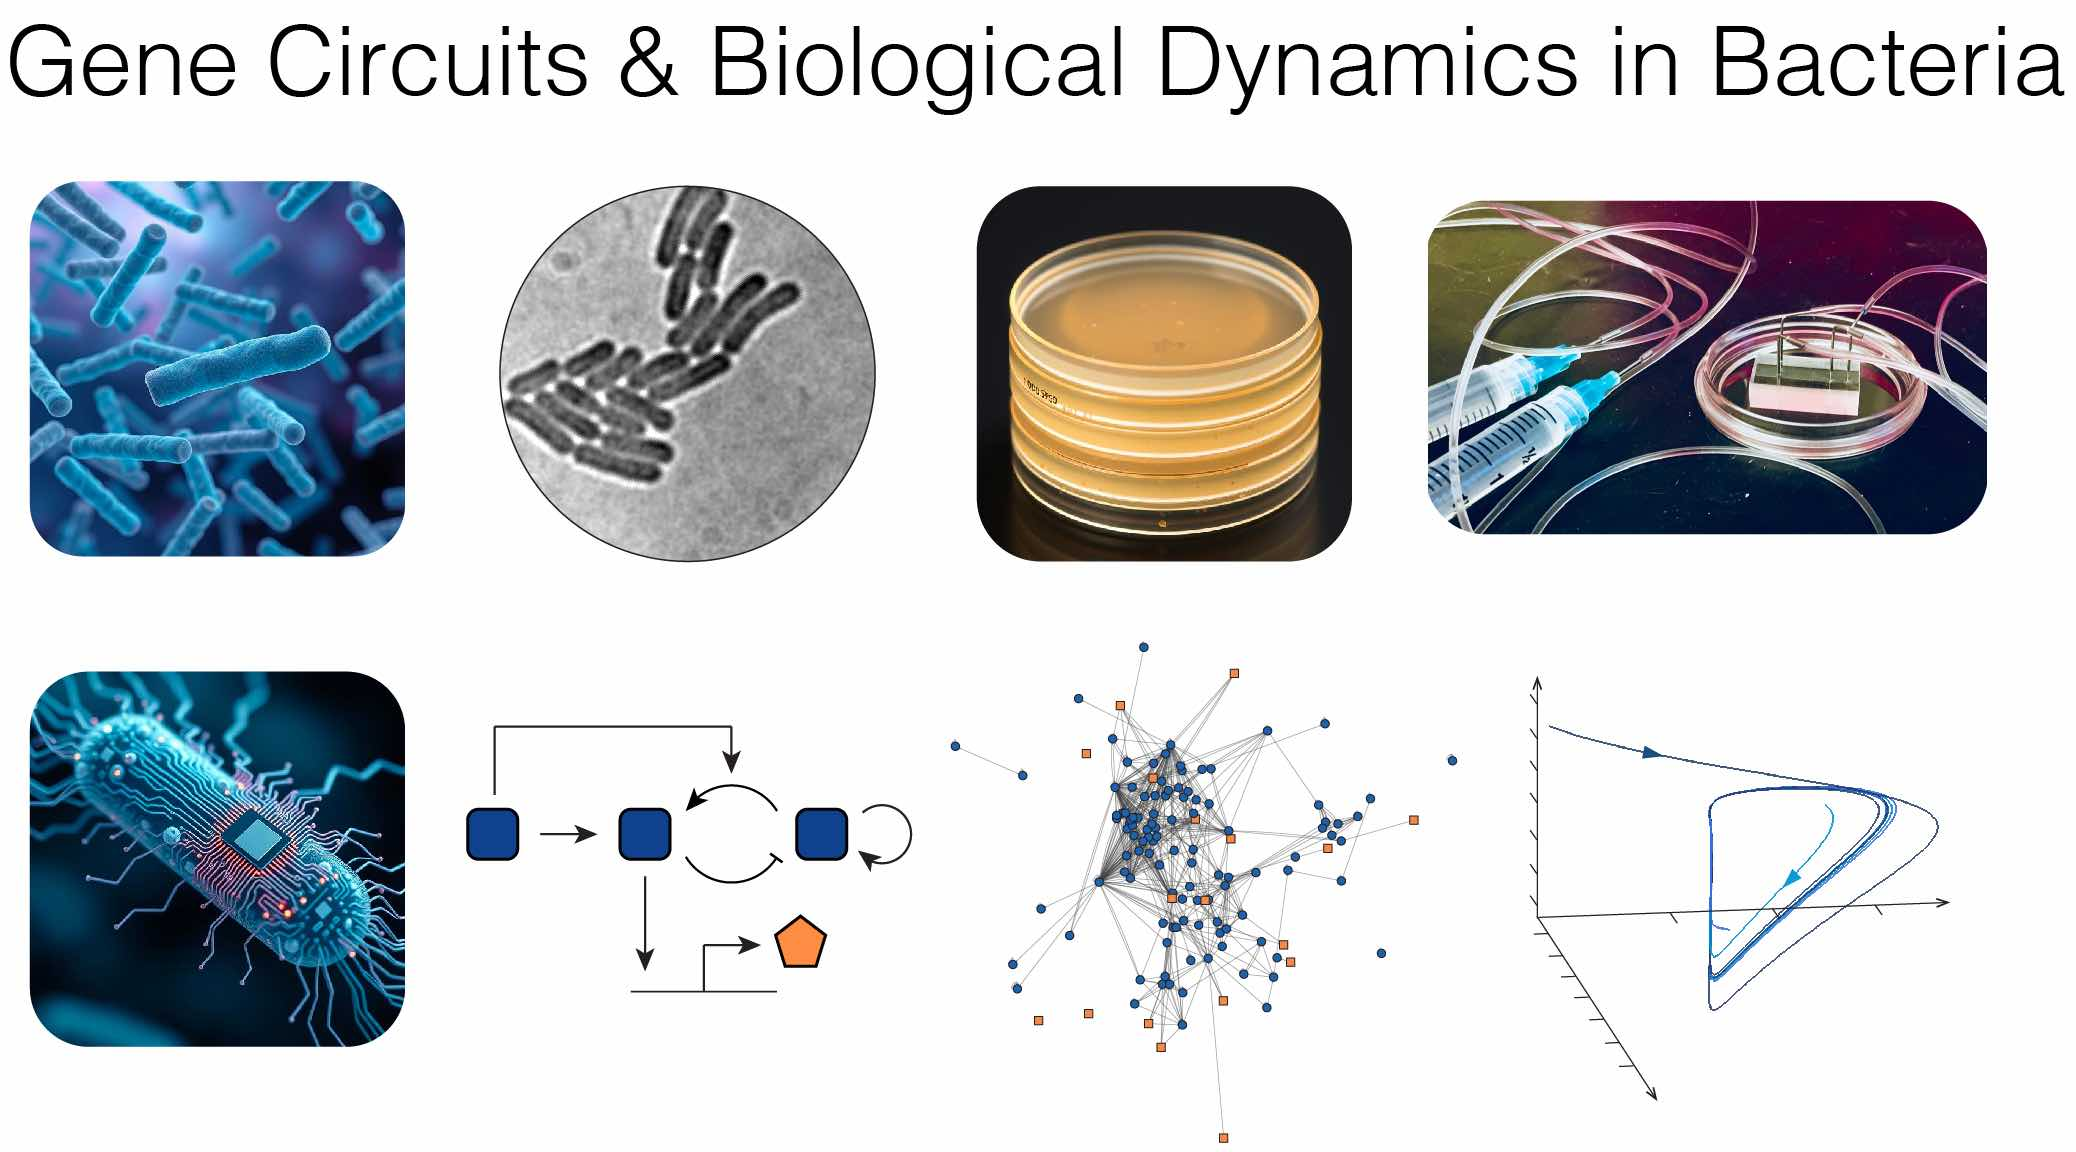
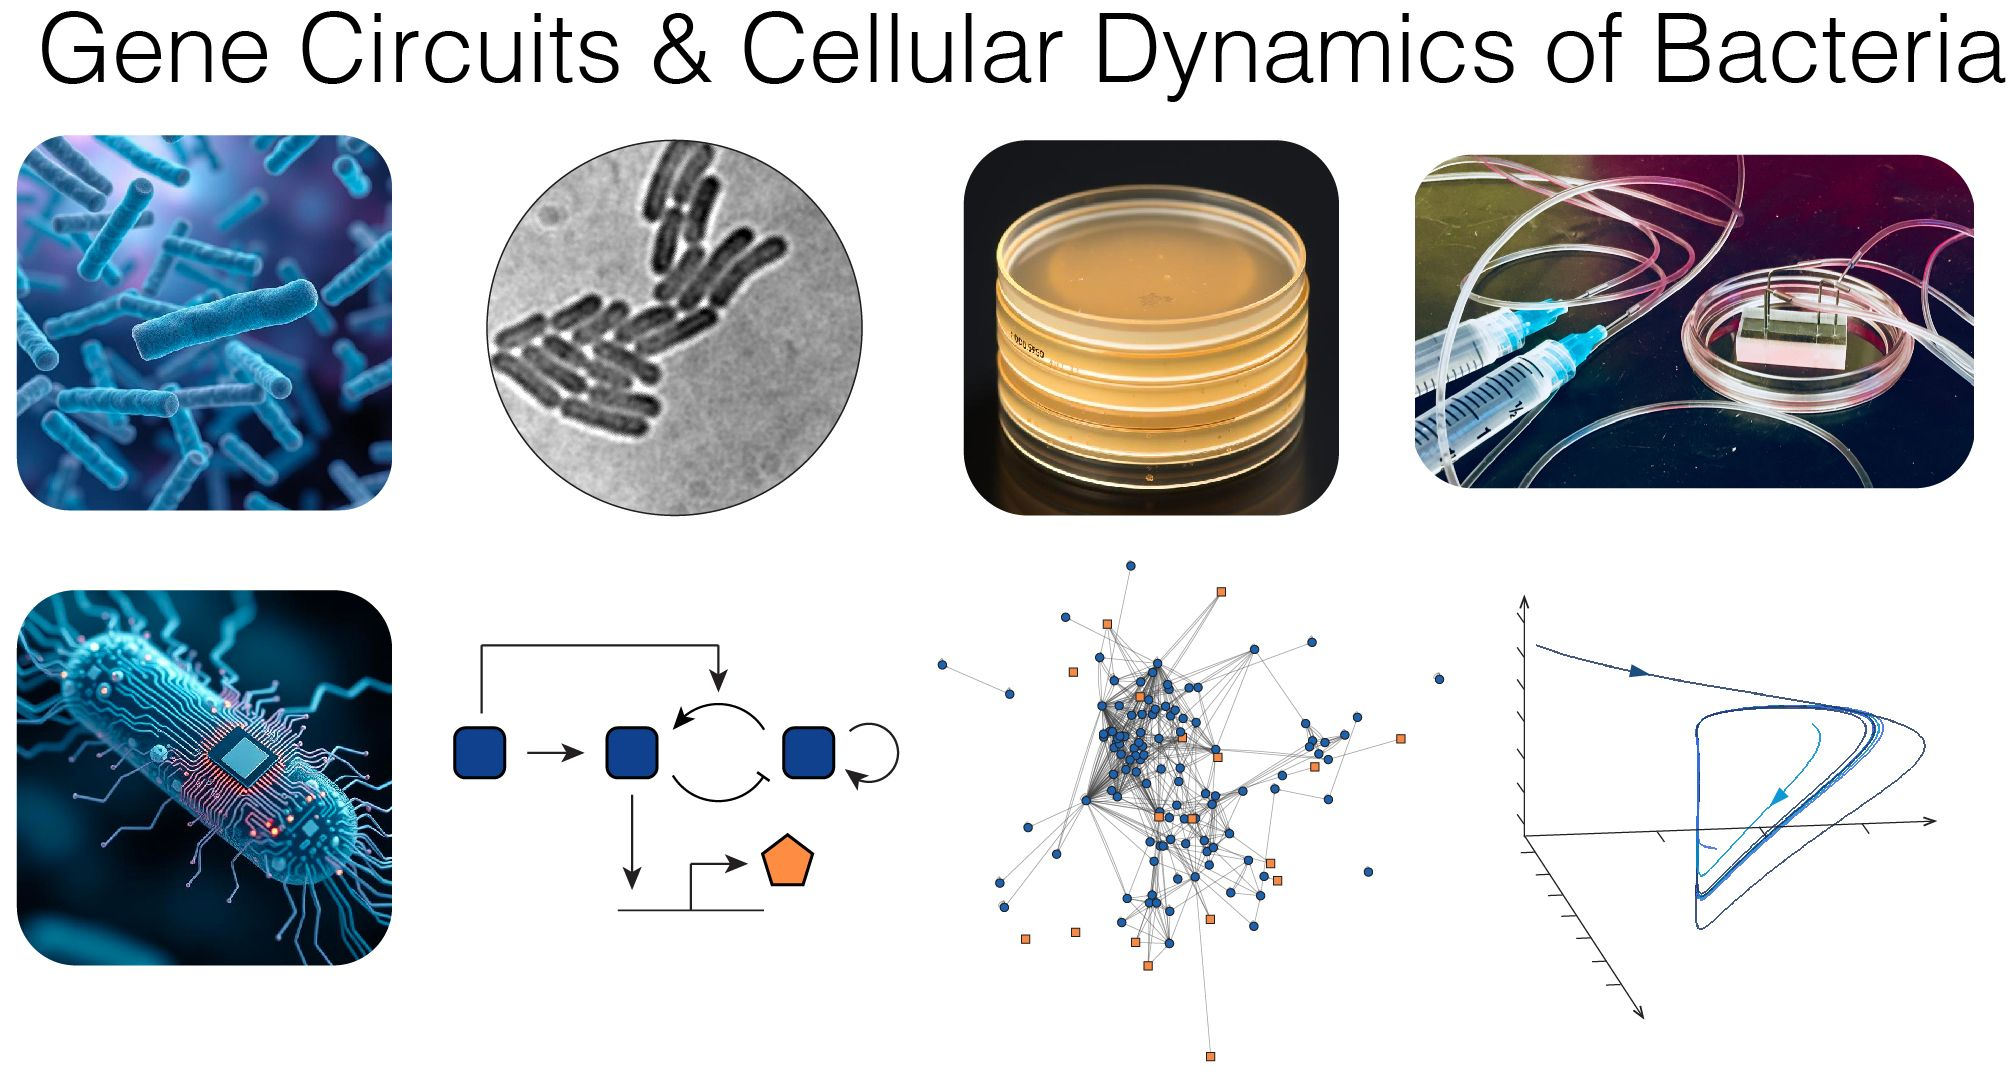
main image replaced

diff --git a/research/index.html b/research/index.html
@@ -9,7 +9,7 @@
 <meta name="keywords" content="">
 <meta name="description" content="Our lab employs a multidisciplinary approach to study the relationship between gene circuits and their dynamical properties in bacteria: quantitative fluorescence microscopy and microfluidics to capture temporal dynamics and cellular heterogeneities, molecular genetics to dissect biological mechanisms, machine learning to uncover patterns, and mathematical modeling to rebuild biological systems and predict experimental outcomes. Our current research topics fall into the following general categories:
 Temporal signal processing
- Much like consciousness emerges from interactions within networks of neurons, gene regulatory networks can give rise to novel emergent properties that cannot be understood or predicted from their individual components in isolation. Even simple circuits comprising just two or three genes can generate sophisticated temporal behaviors in bacteria, including stochastic pulsing, circadian oscillations, fold-detection, noise filtering, and many others. We are investigating how various circuit attributes—such as network topology, reaction kinetics, and stoichiometry—shape temporal outputs and signal processing capabilities of gene circuits and to what extent these properties can be tuned experimentally.">
+ Much like consciousness emerges from interactions within networks of neurons, gene regulatory networks can give rise to novel emergent properties that cannot be understood or predicted from their individual components in isolation. Even simple circuits comprising just two or three genes can generate sophisticated temporal behaviors in bacteria, including stochastic pulsing, circadian oscillations, fold-change detection, noise filtering, and many others. We are investigating how various circuit attributes—such as network topology, reaction kinetics, and stoichiometry—shape temporal outputs and signal processing capabilities of gene circuits and to what extent these properties can be tuned experimentally.">
 <meta name="author" content="">
 <link rel="canonical" href="https://liaolab-qbio.com/research/">
 <link crossorigin="anonymous" href="/assets/css/stylesheet.79b82956f1518785e7fa631576ce76efb7c78811a945140cfcf342ed54f084b1.css" integrity="sha256-ebgpVvFRh4Xn&#43;mMVds5277fHiBGpRRQM/PNC7VTwhLE=" rel="preload stylesheet" as="style">
@@ -33,7 +33,7 @@ Temporal signal processing
   <meta property="og:site_name" content="LIAO RESEARCH GROUP @ HKUST">
   <meta property="og:title" content="Research">
   <meta property="og:description" content="Our lab employs a multidisciplinary approach to study the relationship between gene circuits and their dynamical properties in bacteria: quantitative fluorescence microscopy and microfluidics to capture temporal dynamics and cellular heterogeneities, molecular genetics to dissect biological mechanisms, machine learning to uncover patterns, and mathematical modeling to rebuild biological systems and predict experimental outcomes. Our current research topics fall into the following general categories:
-Temporal signal processing Much like consciousness emerges from interactions within networks of neurons, gene regulatory networks can give rise to novel emergent properties that cannot be understood or predicted from their individual components in isolation. Even simple circuits comprising just two or three genes can generate sophisticated temporal behaviors in bacteria, including stochastic pulsing, circadian oscillations, fold-detection, noise filtering, and many others. We are investigating how various circuit attributes—such as network topology, reaction kinetics, and stoichiometry—shape temporal outputs and signal processing capabilities of gene circuits and to what extent these properties can be tuned experimentally.">
+Temporal signal processing Much like consciousness emerges from interactions within networks of neurons, gene regulatory networks can give rise to novel emergent properties that cannot be understood or predicted from their individual components in isolation. Even simple circuits comprising just two or three genes can generate sophisticated temporal behaviors in bacteria, including stochastic pulsing, circadian oscillations, fold-change detection, noise filtering, and many others. We are investigating how various circuit attributes—such as network topology, reaction kinetics, and stoichiometry—shape temporal outputs and signal processing capabilities of gene circuits and to what extent these properties can be tuned experimentally.">
   <meta property="og:locale" content="en-us">
   <meta property="og:type" content="article">
     <meta property="article:published_time" content="2025-02-04T16:19:08+08:00">
@@ -42,7 +42,7 @@ Temporal signal processing Much like consciousness emerges from interactions wit
 <meta name="twitter:title" content="Research">
 <meta name="twitter:description" content="Our lab employs a multidisciplinary approach to study the relationship between gene circuits and their dynamical properties in bacteria: quantitative fluorescence microscopy and microfluidics to capture temporal dynamics and cellular heterogeneities, molecular genetics to dissect biological mechanisms, machine learning to uncover patterns, and mathematical modeling to rebuild biological systems and predict experimental outcomes. Our current research topics fall into the following general categories:
 Temporal signal processing
- Much like consciousness emerges from interactions within networks of neurons, gene regulatory networks can give rise to novel emergent properties that cannot be understood or predicted from their individual components in isolation. Even simple circuits comprising just two or three genes can generate sophisticated temporal behaviors in bacteria, including stochastic pulsing, circadian oscillations, fold-detection, noise filtering, and many others. We are investigating how various circuit attributes—such as network topology, reaction kinetics, and stoichiometry—shape temporal outputs and signal processing capabilities of gene circuits and to what extent these properties can be tuned experimentally.">
+ Much like consciousness emerges from interactions within networks of neurons, gene regulatory networks can give rise to novel emergent properties that cannot be understood or predicted from their individual components in isolation. Even simple circuits comprising just two or three genes can generate sophisticated temporal behaviors in bacteria, including stochastic pulsing, circadian oscillations, fold-change detection, noise filtering, and many others. We are investigating how various circuit attributes—such as network topology, reaction kinetics, and stoichiometry—shape temporal outputs and signal processing capabilities of gene circuits and to what extent these properties can be tuned experimentally.">
 
 
 <script type="application/ld+json">
@@ -65,12 +65,12 @@ Temporal signal processing
   "@type": "BlogPosting",
   "headline": "Research",
   "name": "Research",
-  "description": "Our lab employs a multidisciplinary approach to study the relationship between gene circuits and their dynamical properties in bacteria: quantitative fluorescence microscopy and microfluidics to capture temporal dynamics and cellular heterogeneities, molecular genetics to dissect biological mechanisms, machine learning to uncover patterns, and mathematical modeling to rebuild biological systems and predict experimental outcomes. Our current research topics fall into the following general categories:\nTemporal signal processing Much like consciousness emerges from interactions within networks of neurons, gene regulatory networks can give rise to novel emergent properties that cannot be understood or predicted from their individual components in isolation. Even simple circuits comprising just two or three genes can generate sophisticated temporal behaviors in bacteria, including stochastic pulsing, circadian oscillations, fold-detection, noise filtering, and many others. We are investigating how various circuit attributes—such as network topology, reaction kinetics, and stoichiometry—shape temporal outputs and signal processing capabilities of gene circuits and to what extent these properties can be tuned experimentally.\n",
+  "description": "Our lab employs a multidisciplinary approach to study the relationship between gene circuits and their dynamical properties in bacteria: quantitative fluorescence microscopy and microfluidics to capture temporal dynamics and cellular heterogeneities, molecular genetics to dissect biological mechanisms, machine learning to uncover patterns, and mathematical modeling to rebuild biological systems and predict experimental outcomes. Our current research topics fall into the following general categories:\nTemporal signal processing Much like consciousness emerges from interactions within networks of neurons, gene regulatory networks can give rise to novel emergent properties that cannot be understood or predicted from their individual components in isolation. Even simple circuits comprising just two or three genes can generate sophisticated temporal behaviors in bacteria, including stochastic pulsing, circadian oscillations, fold-change detection, noise filtering, and many others. We are investigating how various circuit attributes—such as network topology, reaction kinetics, and stoichiometry—shape temporal outputs and signal processing capabilities of gene circuits and to what extent these properties can be tuned experimentally.\n",
   "keywords": [
     
   ],
-  "articleBody": "Our lab employs a multidisciplinary approach to study the relationship between gene circuits and their dynamical properties in bacteria: quantitative fluorescence microscopy and microfluidics to capture temporal dynamics and cellular heterogeneities, molecular genetics to dissect biological mechanisms, machine learning to uncover patterns, and mathematical modeling to rebuild biological systems and predict experimental outcomes. Our current research topics fall into the following general categories:\nTemporal signal processing Much like consciousness emerges from interactions within networks of neurons, gene regulatory networks can give rise to novel emergent properties that cannot be understood or predicted from their individual components in isolation. Even simple circuits comprising just two or three genes can generate sophisticated temporal behaviors in bacteria, including stochastic pulsing, circadian oscillations, fold-detection, noise filtering, and many others. We are investigating how various circuit attributes—such as network topology, reaction kinetics, and stoichiometry—shape temporal outputs and signal processing capabilities of gene circuits and to what extent these properties can be tuned experimentally.\nPhenotypic heterogeneity There is a prevailing notion in biology that phenotypes are determined by the interplay between genetics and environmental factors. Yet, bacterial cells with identical genomes and external conditions could exhibit strikingly different behaviors. A particularly relevant example is the spontaneous and transient emergence of antibiotic-tolerant cells within a genetically uniform population. We would like to uncover the gene regulatory circuits that are prone to drive phenotypic heterogeneities, unravel the key dynamical properties that enable stochastic cell-state transitions, and elucidate their physiological roles in the context of bacterial stress adaptation.\nNew methodologies We are developing advanced microfluidic and imaging platforms to uncover and characterize dynamic processes in single bacterial cells and microbial communities. A key objective is to simultaneously achieve high temporal resolution, single-cell sensitivity, and high throughput, such that transient and heterogeneous events are faithfully and unambiguously captured under well-defined external conditions. In parallel, we are working on statistical and machine learning models for inferential and predictive analyses of circuit-driven gene expression dynamics, offering a scalable alternative to traditional differential equation-based approaches.\nWe are grateful for the trust and generosity of our funding agencies, whose support allows us to pursue cutting-edge research with curiosity and purpose.\n",
-  "wordCount" : "356",
+  "articleBody": "Our lab employs a multidisciplinary approach to study the relationship between gene circuits and their dynamical properties in bacteria: quantitative fluorescence microscopy and microfluidics to capture temporal dynamics and cellular heterogeneities, molecular genetics to dissect biological mechanisms, machine learning to uncover patterns, and mathematical modeling to rebuild biological systems and predict experimental outcomes. Our current research topics fall into the following general categories:\nTemporal signal processing Much like consciousness emerges from interactions within networks of neurons, gene regulatory networks can give rise to novel emergent properties that cannot be understood or predicted from their individual components in isolation. Even simple circuits comprising just two or three genes can generate sophisticated temporal behaviors in bacteria, including stochastic pulsing, circadian oscillations, fold-change detection, noise filtering, and many others. We are investigating how various circuit attributes—such as network topology, reaction kinetics, and stoichiometry—shape temporal outputs and signal processing capabilities of gene circuits and to what extent these properties can be tuned experimentally.\nPhenotypic heterogeneity There is a prevailing notion in biology that phenotypes are determined by the interplay between genetics and environmental factors. Yet, bacterial cells with identical genomes and external conditions could exhibit strikingly different behaviors. A particularly relevant example is the spontaneous and transient emergence of antibiotic-tolerant cells within a genetically uniform population. We would like to uncover the gene regulatory circuits that are prone to drive phenotypic heterogeneities, unravel the key dynamical properties that enable stochastic cell-state transitions, and elucidate their physiological roles in the context of bacterial stress adaptation.\nNew methodologies We are developing advanced microfluidic and imaging platforms to uncover and characterize dynamic processes in single bacterial cells and microbial communities. A key objective is to simultaneously achieve high temporal resolution, single-cell sensitivity, and high throughput, such that transient and heterogeneous events are faithfully and unambiguously captured under well-defined external conditions. In parallel, we are working on statistical and machine learning models for inferential and predictive analyses of circuit-driven gene expression dynamics, offering a scalable alternative to traditional differential equation-based approaches.\nWe are grateful for the trust and generosity of our funding agencies, whose support allows us to pursue cutting-edge research with curiosity and purpose.\n",
+  "wordCount" : "357",
   "inLanguage": "en",
   "datePublished": "2025-02-04T16:19:08+08:00",
   "dateModified": "2025-02-04T16:19:08+08:00",
@@ -141,7 +141,7 @@ Temporal signal processing
   </header> 
   <div class="post-content"><p>Our lab employs a multidisciplinary approach to study the relationship between gene circuits and their dynamical properties in bacteria: quantitative fluorescence microscopy and microfluidics to capture temporal dynamics and cellular heterogeneities, molecular genetics to dissect biological mechanisms, machine learning to uncover patterns, and mathematical modeling to rebuild biological systems and predict experimental outcomes. Our current research topics fall into the following general categories:</p>
 <h3 id="temporal-signal-processing">Temporal signal processing<a hidden class="anchor" aria-hidden="true" href="#temporal-signal-processing">#</a></h3>
-<p><img alt="temporal_signal_processing" loading="lazy" src="/temporal_signal_processing.jpg#floatleft_style_1"> Much like consciousness emerges from interactions within networks of neurons, gene regulatory networks can give rise to novel emergent properties that cannot be understood or predicted from their individual components in isolation. Even simple circuits comprising just two or three genes can generate sophisticated temporal behaviors in bacteria, including stochastic pulsing, circadian oscillations, fold-detection, noise filtering, and many others. We are investigating how various circuit attributes—such as network topology, reaction kinetics, and stoichiometry—shape temporal outputs and signal processing capabilities of gene circuits and to what extent these properties can be tuned experimentally.</p>
+<p><img alt="temporal_signal_processing" loading="lazy" src="/temporal_signal_processing.jpg#floatleft_style_1"> Much like consciousness emerges from interactions within networks of neurons, gene regulatory networks can give rise to novel emergent properties that cannot be understood or predicted from their individual components in isolation. Even simple circuits comprising just two or three genes can generate sophisticated temporal behaviors in bacteria, including stochastic pulsing, circadian oscillations, fold-change detection, noise filtering, and many others. We are investigating how various circuit attributes—such as network topology, reaction kinetics, and stoichiometry—shape temporal outputs and signal processing capabilities of gene circuits and to what extent these properties can be tuned experimentally.</p>
 <h3 id="phenotypic-heterogeneity">Phenotypic heterogeneity<a hidden class="anchor" aria-hidden="true" href="#phenotypic-heterogeneity">#</a></h3>
 <p><img alt="Phenotypic_heterogeneity" loading="lazy" src="/Phenotypic_heterogeneity.jpg#floatleft_style_1"> There is a prevailing notion in biology that phenotypes are determined by the interplay between genetics and environmental factors. Yet, bacterial cells with identical genomes and external conditions could exhibit strikingly different behaviors. A particularly relevant example is the spontaneous and transient emergence of antibiotic-tolerant cells within a genetically uniform population. We would like to uncover the gene regulatory circuits that are prone to drive phenotypic heterogeneities, unravel the key dynamical properties that enable stochastic cell-state transitions, and elucidate their physiological roles in the context of bacterial stress adaptation.</p>
 <h3 id="new-methodologies">New methodologies<a hidden class="anchor" aria-hidden="true" href="#new-methodologies">#</a></h3>
